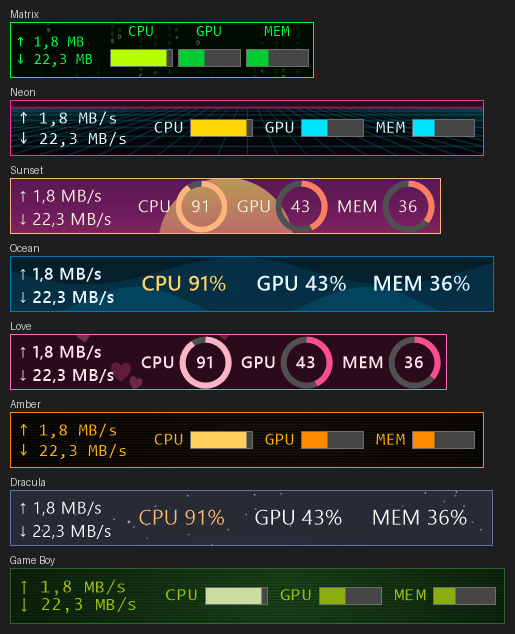
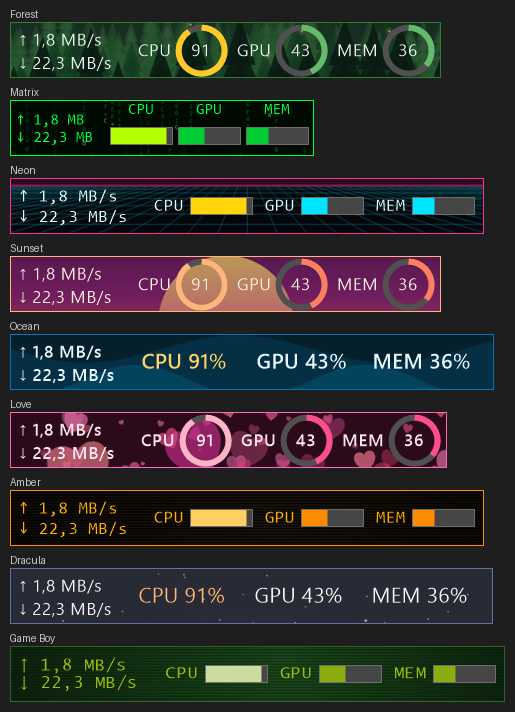
Thema Forest (dennenbos), meer en grotere/kleinere hartjes bij Love, Love-thema tijdelijk op 14 februari bij het opstarten (bestand houdt eigen uiterlijk); tests, docs, screenshot

diff --git a/src/BgPatterns.cs b/src/BgPatterns.cs
@@ -12,7 +12,7 @@ public static class BgPatterns
 {
     public const string Prefix = "builtin:";
 
-    public static readonly string[] Names = { "matrix", "grid", "stars", "sunset", "waves", "scanlines", "hearts" };
+    public static readonly string[] Names = { "matrix", "grid", "stars", "sunset", "waves", "scanlines", "hearts", "forest" };
 
     public static string Path(string name) => Prefix + name;
 
@@ -40,6 +40,7 @@ public static class BgPatterns
             case "waves": Waves(g, w, h); break;
             case "scanlines": Scanlines(g, w, h); break;
             case "hearts": Hearts(g, w, h, rnd); break;
+            case "forest": Forest(g, w, h, rnd); break;
         }
         return bmp;
     }
@@ -156,17 +157,61 @@ public static class BgPatterns
         g.Clip = clip;
     }
 
+    // Dennenbos in lagen: ver weg licht en nevelig, vooraan donker; onderin mist en een paar vuurvliegjes.
+    private static void Forest(Graphics g, int w, int h, Random rnd)
+    {
+        using (var sky = new LinearGradientBrush(new Rectangle(0, 0, w, h + 1), Color.Transparent, Color.FromArgb(90, 102, 187, 106), 90f))
+            g.FillRectangle(sky, 0, 0, w, h);
+        var layers = new (float baseY, float treeH, Color c, int gap)[]
+        {
+            (0.66f, 0.30f, Color.FromArgb(70, 102, 187, 106), 34),
+            (0.76f, 0.38f, Color.FromArgb(120, 46, 125, 50), 44),
+            (0.88f, 0.46f, Color.FromArgb(175, 20, 70, 36), 58),
+            (1.02f, 0.58f, Color.FromArgb(225, 6, 22, 13), 82),
+        };
+        foreach (var (baseY, treeH, c, gap) in layers)
+        {
+            using var br = new SolidBrush(c);
+            float unit = h / 540f;
+            for (float x = -gap; x < w + gap; x += gap * unit * (0.7f + (float)rnd.NextDouble() * 0.7f))
+            {
+                float th = h * treeH * (0.7f + (float)rnd.NextDouble() * 0.5f), tw = th * 0.42f, by = h * baseY;
+                float trunkW = tw * 0.09f;
+                g.FillRectangle(br, x - trunkW / 2, by - th * 0.12f, trunkW, th * 0.14f);
+                const int tiers = 5;
+                for (int i = 0; i < tiers; i++)   // gestapelde driehoeken, breder naar beneden
+                {
+                    float top = by - th + th * 0.86f * i / tiers * 0.8f;
+                    float bottom = top + th * 0.30f;
+                    float half = tw / 2 * (0.35f + 0.65f * (i + 1) / tiers);
+                    g.FillPolygon(br, new[] { new PointF(x, top), new PointF(x + half, bottom), new PointF(x - half, bottom) });
+                }
+            }
+        }
+        using (var mist = new LinearGradientBrush(new Rectangle(0, (int)(h * 0.72), w, (int)(h * 0.3) + 1), Color.Transparent, Color.FromArgb(70, 200, 240, 210), 90f))
+            g.FillRectangle(mist, 0, h * 0.72f, w, h * 0.3f);
+        for (int i = 0; i < Math.Max(8, w / 60); i++)   // vuurvliegjes
+        {
+            float x = rnd.Next(w), y = h * (0.35f + (float)rnd.NextDouble() * 0.5f);
+            using var glow = new SolidBrush(Color.FromArgb(40, 255, 226, 110));
+            using var core = new SolidBrush(Color.FromArgb(220, 255, 240, 160));
+            g.FillEllipse(glow, x - 5, y - 5, 10, 10);
+            g.FillEllipse(core, x - 1.5f, y - 1.5f, 3, 3);
+        }
+    }
+
     private static void Hearts(Graphics g, int w, int h, Random rnd)
     {
-        int n = Math.Max(14, w * h / 30000);
+        int n = Math.Max(120, w * h / 3500);
         for (int i = 0; i < n; i++)
         {
-            float size = rnd.Next(14, 54), x = rnd.Next(w), y = rnd.Next(h);
+            double kind = rnd.NextDouble();   // veel kleine, wat middelgrote en een paar grote hartjes
+            float size = kind < 0.5 ? rnd.Next(8, 22) : kind < 0.85 ? rnd.Next(24, 50) : rnd.Next(60, 130), x = rnd.Next(w), y = rnd.Next(h);
             using var font = new Font("Segoe UI Symbol", size, FontStyle.Regular, GraphicsUnit.Pixel);
             var st = g.Save();
             g.TranslateTransform(x, y);
             g.RotateTransform(rnd.Next(-30, 30));
-            using var br = new SolidBrush(Color.FromArgb(rnd.Next(60, 150), 255, rnd.Next(60, 140), rnd.Next(120, 190)));
+            using var br = new SolidBrush(Color.FromArgb(rnd.Next(80, 190), 255, rnd.Next(60, 140), rnd.Next(120, 190)));
             g.DrawString("♥", font, br, 0, 0);
             g.Restore(st);
         }

diff --git a/src/AppSettings.Seasonal.cs b/src/AppSettings.Seasonal.cs
@@ -1,0 +1,54 @@
+using System.Text.Json.Serialization;
+
+namespace TaskbarStats;
+
+/// <summary>Themas voor een bijzondere dag (nu: het Love-thema op 14 februari) - tijdelijk, alleen na het starten van het programma.</summary>
+public static class Seasonal
+{
+    /// <summary>De datum van vandaag; <c>TASKBARSTATS_TODAY=2026-02-14</c> overschrijft die (voor tests).</summary>
+    public static DateTime Today()
+        => DateTime.TryParse(Environment.GetEnvironmentVariable("TASKBARSTATS_TODAY"), System.Globalization.CultureInfo.InvariantCulture, System.Globalization.DateTimeStyles.None, out var d) ? d.Date : DateTime.Today;
+
+    /// <summary>Naam van het meegeleverde thema voor deze dag, of null.</summary>
+    public static string? ThemeFor(DateTime day) => day is { Month: 2, Day: 14 } ? "Love" : null;
+}
+
+public sealed partial class AppSettings
+{
+    /// <summary>Op bijzondere dagen (14 februari) tijdelijk een feestelijk thema tonen; het eigen thema blijft in het bestand staan.</summary>
+    public bool SeasonalThemes { get; set; } = true;
+
+    // Het uiterlijk van de gebruiker zelf zolang een feestthema is toegepast; settings.json (ToJson) schrijft altijd dit.
+    private ThemeData? _seasonalOriginal;
+    private (string?, BgMode, int, string?, BgMode, int, string?, BgMode, int) _seasonalBg;
+
+    [JsonIgnore] internal bool SeasonalActive => _seasonalOriginal is not null;
+
+    /// <summary>Past <paramref name="t"/> tijdelijk toe (in het geheugen); false als er al een feestthema actief is.</summary>
+    internal bool BeginSeasonal(ThemeData t)
+    {
+        if (_seasonalOriginal is not null) return false;
+        _seasonalOriginal = ThemeData.Capture(this, "");
+        _seasonalBg = (WidgetBgImage, WidgetBgMode, WidgetBgOpacity, DashBgImage, DashBgMode, DashBgOpacity, FullBgImage, FullBgMode, FullBgOpacity);
+        t.ApplyTo(this);
+        return true;
+    }
+
+    /// <summary>Zet het eigen uiterlijk terug; true als er iets is teruggezet (de aanroeper moet dan opnieuw toepassen).</summary>
+    internal bool EndSeasonal()
+    {
+        if (_seasonalOriginal is null) return false;
+        RestoreOriginalInto(this);
+        _seasonalOriginal = null;
+        return true;
+    }
+
+    /// <summary>Een ander thema of een import vervangt het uiterlijk voorgoed: het feestthema hoeft dan niet meer terug.</summary>
+    internal void ForgetSeasonal() => _seasonalOriginal = null;
+
+    private void RestoreOriginalInto(AppSettings c)
+    {
+        _seasonalOriginal!.ApplyTo(c);
+        (c.WidgetBgImage, c.WidgetBgMode, c.WidgetBgOpacity, c.DashBgImage, c.DashBgMode, c.DashBgOpacity, c.FullBgImage, c.FullBgMode, c.FullBgOpacity) = _seasonalBg;
+    }
+}

diff --git a/src/WidgetForm.cs b/src/WidgetForm.cs
@@ -179,6 +179,7 @@ public sealed partial class WidgetForm : Form
         if (!_cfg.WelcomeShown) BeginInvoke(new Action(ShowWelcome));
         SyncDashboard();
         ActionsOnShown();
+        StartSeasonal();
         ShowCrashNotice();
     }
 
@@ -551,6 +552,13 @@ public sealed partial class WidgetForm : Form
         Render();
     }
 
+    // Op 14 februari tijdelijk het Love-thema (alleen in het geheugen; settings.json houdt het eigen uiterlijk).
+    private void StartSeasonal()
+    {
+        if (!_cfg.SeasonalThemes || Seasonal.ThemeFor(Seasonal.Today()) is not { } name) return;
+        if (ThemeStore.Entries(_cfg).FirstOrDefault(e => e.T.Name == name)?.T is { } t && _cfg.BeginSeasonal(t)) ApplyAll();
+    }
+
     private void Nudge(int code)
     {
         if (code != 1) return;
@@ -702,6 +710,7 @@ public sealed partial class WidgetForm : Form
 
     private void ShowSettings()
     {
+        if (_cfg.EndSeasonal()) ApplyAll();   // wie de instellingen opent, wil zijn eigen uiterlijk bewerken
         if (_settings is { IsDisposed: false }) { _settings.WindowState = FormWindowState.Normal; _settings.Activate(); return; }
         _settings = new SettingsForm(_cfg, new SettingsHost
         {
@@ -1038,7 +1047,7 @@ public sealed partial class WidgetForm : Form
         void addTheme(ThemeData t, bool builtIn)
         {
             var it = new ToolStripMenuItem(builtIn ? ThemeStore.Label(t.Name) : t.Name) { Tag = "close" };
-            it.Click += (_, _) => { t.ApplyTo(_cfg); ApplyAll(); };
+            it.Click += (_, _) => { _cfg.ForgetSeasonal(); t.ApplyTo(_cfg); ApplyAll(); };
             themes.DropDownItems.Add(it);
         }
         var all = ThemeStore.Entries(_cfg);

diff --git a/tests/TaskbarStats.Tests/BgPatternTests.cs b/tests/TaskbarStats.Tests/BgPatternTests.cs
@@ -53,4 +53,33 @@ public class BgPatternTests
         Assert.Equal(@"C:\eigen\foto.png", c.DashBgImage);   // eigen afbeelding blijft
         Assert.Null(ThemeData.Capture(c, "x").Background);
     }
+
+    [Fact]
+    public void Feestthema_is_tijdelijk_en_het_bestand_houdt_het_eigen_uiterlijk()
+    {
+        Assert.Equal("Love", Seasonal.ThemeFor(new DateTime(2026, 2, 14)));
+        Assert.Null(Seasonal.ThemeFor(new DateTime(2026, 2, 15)));
+
+        var c = new AppSettings { AccentColor = "#123456", WidgetHeight = 40 };
+        var love = ThemeStore.BuiltIn().Single(t => t.Name == "Love");
+        Assert.True(c.BeginSeasonal(love));
+        Assert.False(c.BeginSeasonal(love));   // maar één keer
+        Assert.Equal(love.AccentColor, c.AccentColor);
+        Assert.Equal("builtin:hearts", c.DashBgImage);
+        c.FloatX = 777;   // een andere wijziging van vandaag blijft wel bewaard
+
+        var saved = AppSettings.TryParse(c.ToJson())!;
+        Assert.Equal("#123456", saved.AccentColor);
+        Assert.Null(saved.DashBgImage);
+        Assert.Equal(777, saved.FloatX);
+
+        Assert.True(c.EndSeasonal());
+        Assert.Equal("#123456", c.AccentColor);
+        Assert.Null(c.WidgetBgImage);
+        Assert.False(c.EndSeasonal());
+
+        c.BeginSeasonal(love);
+        c.ForgetSeasonal();   // een ander thema kiezen: het feestthema hoeft niet terug
+        Assert.Equal(love.AccentColor, AppSettings.TryParse(c.ToJson())!.AccentColor);
+    }
 }

diff --git a/src/Themes.cs b/src/Themes.cs
@@ -182,7 +182,7 @@ public static class ThemeStore
         },
         new ThemeData
         {
-            Name = "Love", Background = "hearts", BackgroundOpacity = 70, TextColor = "#FFE4EE", BackgroundColor = "#2B0A1A", AccentColor = "#FF4D8D", WarnColor = "#FFB3C7",
+            Name = "Love", Background = "hearts", BackgroundOpacity = 85, TextColor = "#FFE4EE", BackgroundColor = "#2B0A1A", AccentColor = "#FF4D8D", WarnColor = "#FFB3C7",
             CritColor = "#FF1744", BorderColor = "#FF69B4", CpuStyle = DisplayStyle.Gauge, GpuStyle = DisplayStyle.Gauge, MemStyle = DisplayStyle.Gauge,
             FontFamily = "Segoe UI Semibold",
         },
@@ -229,7 +229,7 @@ public static class ThemeStore
         },
         new ThemeData
         {
-            Name = "Forest", TextColor = "#E8F5E9", BackgroundColor = "#10201A", AccentColor = "#66BB6A", WarnColor = "#FFCA28",
+            Name = "Forest", Background = "forest", BackgroundOpacity = 60, TextColor = "#E8F5E9", BackgroundColor = "#10201A", AccentColor = "#66BB6A", WarnColor = "#FFCA28",
             CritColor = "#EF5350", BorderColor = "#2E7D32", CpuStyle = DisplayStyle.Gauge, GpuStyle = DisplayStyle.Gauge, MemStyle = DisplayStyle.Gauge,
         },
         new ThemeData

diff --git a/src/AppSettings.Backup.cs b/src/AppSettings.Backup.cs
@@ -19,7 +19,14 @@ public sealed partial class AppSettings
     }
 
     /// <summary>De instellingen als JSON-tekst (zoals in settings.json).</summary>
-    public string ToJson() => JsonSerializer.Serialize(this, JsonOpts);
+    public string ToJson()
+    {
+        if (!SeasonalActive) return JsonSerializer.Serialize(this, JsonOpts);
+        // feestthema actief: bewaar het eigen uiterlijk (en alle andere wijzigingen van vandaag)
+        var copy = JsonSerializer.Deserialize<AppSettings>(JsonSerializer.Serialize(this, JsonOpts), JsonOpts)!;
+        RestoreOriginalInto(copy);
+        return JsonSerializer.Serialize(copy, JsonOpts);
+    }
 
     /// <summary>
     /// Neemt alle instellingen van <paramref name="other"/> over in dit object (het object zelf blijft bestaan, want widget,
@@ -27,6 +34,7 @@ public sealed partial class AppSettings
     /// </summary>
     public void CopyFrom(AppSettings other)
     {
+        ForgetSeasonal();
         foreach (var p in typeof(AppSettings).GetProperties(BindingFlags.Public | BindingFlags.Instance))
         {
             if (!p.CanRead || !p.CanWrite || p.SetMethod is not { IsPublic: true }) continue;

diff --git a/src/AppSettings.cs b/src/AppSettings.cs
@@ -164,7 +164,7 @@ public sealed partial class AppSettings
             try
             {
                 string tmp = FilePath + ".tmp";
-                File.WriteAllText(tmp, JsonSerializer.Serialize(this, JsonOpts));
+                File.WriteAllText(tmp, ToJson());
                 File.Move(tmp, FilePath, true);
             }
             catch (Exception dex) { Diag.Swallow(dex); /* best-effort */ }

diff --git a/src/SettingsForm.cs b/src/SettingsForm.cs
@@ -981,6 +981,7 @@ public sealed partial class SettingsForm : Form
         right.Controls.Add(Head(Loc.T("Theme file (JSON)")));
         right.Controls.Add(jsonButtons);
         right.Controls.Add(json);
+        right.Controls.Add(Check(Loc.T("Show the Love theme on 14 February (temporary, at start-up)"), _c.SeasonalThemes, v => _c.SeasonalThemes = v));
         reload();
         return tab;
     }

diff --git a/CLAUDE.md b/CLAUDE.md
@@ -31,6 +31,7 @@ build-installer.bat            # publish (self-contained, single file, gecomprim
 | `DashboardForm.cs`, `DashboardRenderer.cs`, `DashboardModel.cs` | bureaublad-dashboard: `DashboardForm` = venster (layered window, z-orde, timers, muis); `DashboardRenderer` = tekenen naar een gewone `Bitmap` zonder venster (indeling/masonry, tegels; ontvangt `MetricsSnapshot`, schijven, DPI expliciet; `Measure` geeft alleen de maat; testbaar); `DashboardModel` = `Ring`, `MetricHistory`, `DashContext` |
 | `FullscreenForm.cs`, `FullscreenRenderer*.cs`, `FullscreenView.cs` | fullscreen cockpit: vast canvas 1920×1080 dat meeschaalt; overzicht + detail per tegel; Esc = terug/sluiten. `FullscreenForm` = venster, invoer, navigatie, tour, timers; `FullscreenRenderer` (partial: .cs hulpen, .Header, .Overview, .Detail, .Specs, .Sensors) = alleen tekenen: `Paint(g, size, FullscreenView, MetricsSnapshot, background?)`, `Hits`/`HitAt`, `Scale`; `FullscreenView` = weergavetoestand (pagina, venster, scroll, hover, tour); klok/tijd en specificatiebron zijn injecteerbaar (tests: `FullscreenRendererTests`) |
 | `SettingsForm.cs`, `AppIcon.cs` | instellingenvenster met tabbladen (Widget incl. bronnen GPU/adapter/schijven, Kleuren, Dashboard, Fullscreen, Thema's, Algemeen); `SettingsHost` = callbacks naar het widget; `AppIcon` = ingebed `app.ico` (ook exe-icoon) voor vensters en systeemvak; elke wijziging gaat direct via `WidgetForm.ApplyAll()` naar widget/dashboard/fullscreen |
+| `AppSettings.Seasonal.cs` | feestthema's: `Seasonal.ThemeFor(datum)` (nu 14 feb = Love, `TASKBARSTATS_TODAY=2026-02-14` voor tests); `BeginSeasonal` past het thema alleen in het geheugen toe, `ToJson`/`Save` schrijven dan het eigen uiterlijk (thema + achtergrond); `EndSeasonal` bij openen van Instellingen, `ForgetSeasonal` bij zelf een thema kiezen/importeren; instelling `SeasonalThemes` |
 | `BgPatterns.cs` | meegeleverde achtergronden in code getekend (`builtin:naam` als pad in `*BgImage`, door `BgLayer.Load` gerenderd; niet op de UI-thread dus zonder `GdiCache`); `ThemeData.Background/BackgroundOpacity` zetten ze op alle drie de vensters, ApplyTo wist alleen een eerder `builtin:`-patroon, nooit een eigen bestand |
 | `Themes.cs`, `Tiles.cs` | `ThemeData` (uiterlijk + indeling als JSON, meegeleverd + `%AppData%\TaskbarStats\themes\`; `ThemeStore.Entries` = de lijst zoals de gebruiker hem ziet: een eigen bestand met de naam van een meegeleverd thema vervangt dat thema ("aangepast"), en de JSON-editor in *Thema's* schrijft zulke bestanden; de knop *Voorbeeld* past een thema 10 s toe met bewegende verzonnen waarden (`Metrics.SetDemo/ClearDemo`, `Metrics.Current` geeft die dan terug, meldingen staan uit) en wisselende weergavestijl (`ThemeData.Capture` vooraf, `ApplyTo` om terug te zetten); `HardwareInfo.CopyToClipboard`/`ToText` = alle specs naar het klembord, knop op de specificatiepagina + menu-item); `Tiles`: ids, volgorde (`DashOrder`/`FullOrder`) en zichtbaarheid van de 8 hoofdonderdelen |
 | `WidgetForm.Fmt/Graph/Actions/WinTheme.cs`, `Metrics.Extra.cs`, `AppSettings.*.cs`, `SettingsForm.*.cs`, `BgImage.cs`, `UpdateChecker.cs` | v1.4: de grote klassen zijn `partial`; nieuwe functies staan in eigen bestanden. Waardeopmaak (`AppSettings.Format`, alleen widget), extra items cpufreq/diskbusy/disktemp/mobotemp (`Metrics.Extra`), grafiekstijl (`DisplayStyle.Graph`, `NetStyle`/`PingStyle`), muisacties + klik-door (Ctrl+Alt+W), extra meldingen, `UpdateChecker` (opt-in, `TASKBARSTATS_UPDATE_URL` voor tests), `BgLayer` (achtergrondafbeelding widget/dashboard/fullscreen, gecachet, pad niet in thema's), Windows-thema volgen (`Effective*()`; testen met `TASKBARSTATS_FAKE_THEME`) |

diff --git a/README.md b/README.md
@@ -41,7 +41,9 @@ A 70-second tour of the widget, the settings, the dashboard and the fullscreen s
 ![Instellingen: algemeen](docs/screenshots/settings-general.png)
 ![Instellingen: thema's](docs/screenshots/settings-themes.png)
 
-Sommige thema's hebben een eigen **achtergrond**, in code getekend (dus geen bestanden): Matrix (vallende tekens), Neon (raster), Sunset (zon), Ocean (golven), Love (hartjes), Dracula (sterren), Amber, CGA en Game Boy (beeldbuislijntjes). Het thema zet die op widget, dashboard en fullscreen tegelijk; een thema zonder achtergrond haalt zo'n patroon weer weg (je eigen afbeelding blijft staan). In de JSON van een thema staan `Background` (`matrix`, `grid`, `stars`, `sunset`, `waves`, `scanlines` of `hearts`) en `BackgroundOpacity` (5-100).
+Sommige thema's hebben een eigen **achtergrond**, in code getekend (dus geen bestanden): Matrix (vallende tekens), Neon (raster), Sunset (zon), Forest (dennenbos met vuurvliegjes), Ocean (golven), Love (hartjes, groot en klein), Dracula (sterren), Amber, CGA en Game Boy (beeldbuislijntjes). Het thema zet die op widget, dashboard en fullscreen tegelijk; een thema zonder achtergrond haalt zo'n patroon weer weg (je eigen afbeelding blijft staan). In de JSON van een thema staan `Background` (`matrix`, `grid`, `stars`, `sunset`, `waves`, `scanlines`, `hearts` of `forest`) en `BackgroundOpacity` (5-100).
+
+Op **14 februari** start het programma tijdelijk met het Love-thema (alleen in het geheugen: `settings.json` houdt je eigen uiterlijk, en zodra je Instellingen opent of zelf een thema kiest is het weer van jou). Uitzetten kan bij Instellingen → *Thema's* (*Toon het Love-thema op 14 februari*).
 
 ![Widgets met de achtergronden van de thema's](docs/screenshots/themes-achtergronden.png)
 
